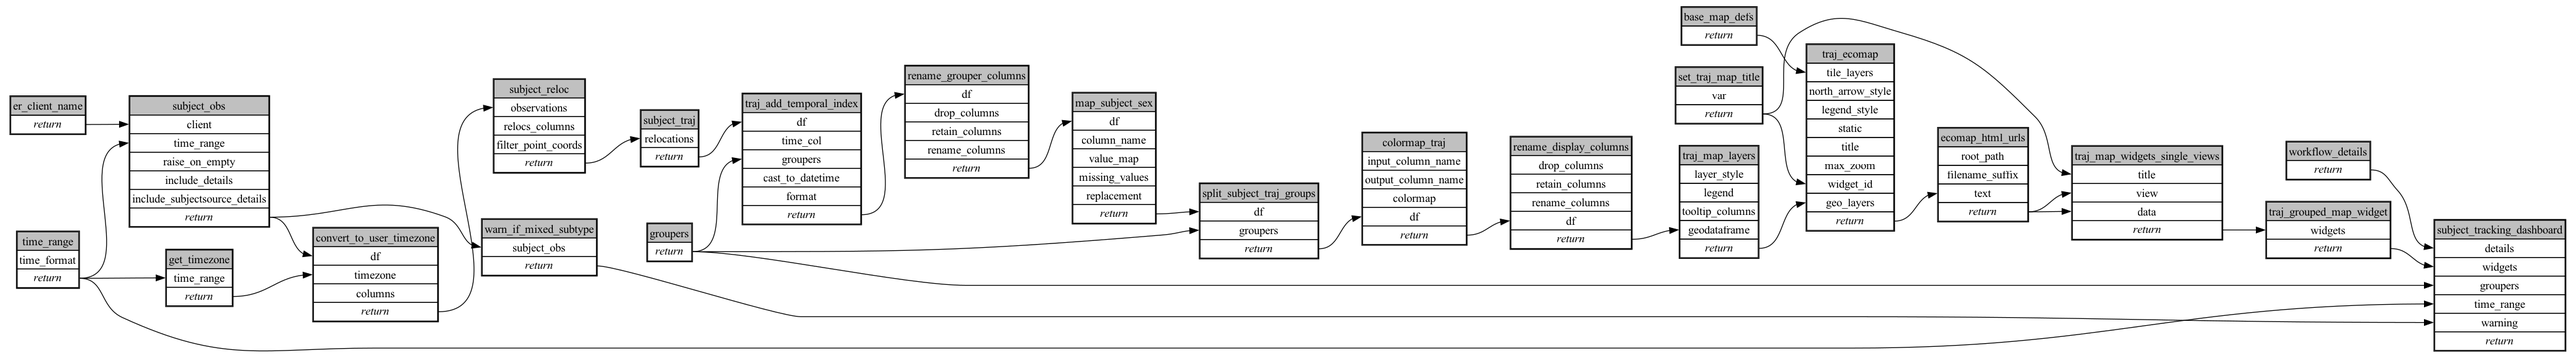
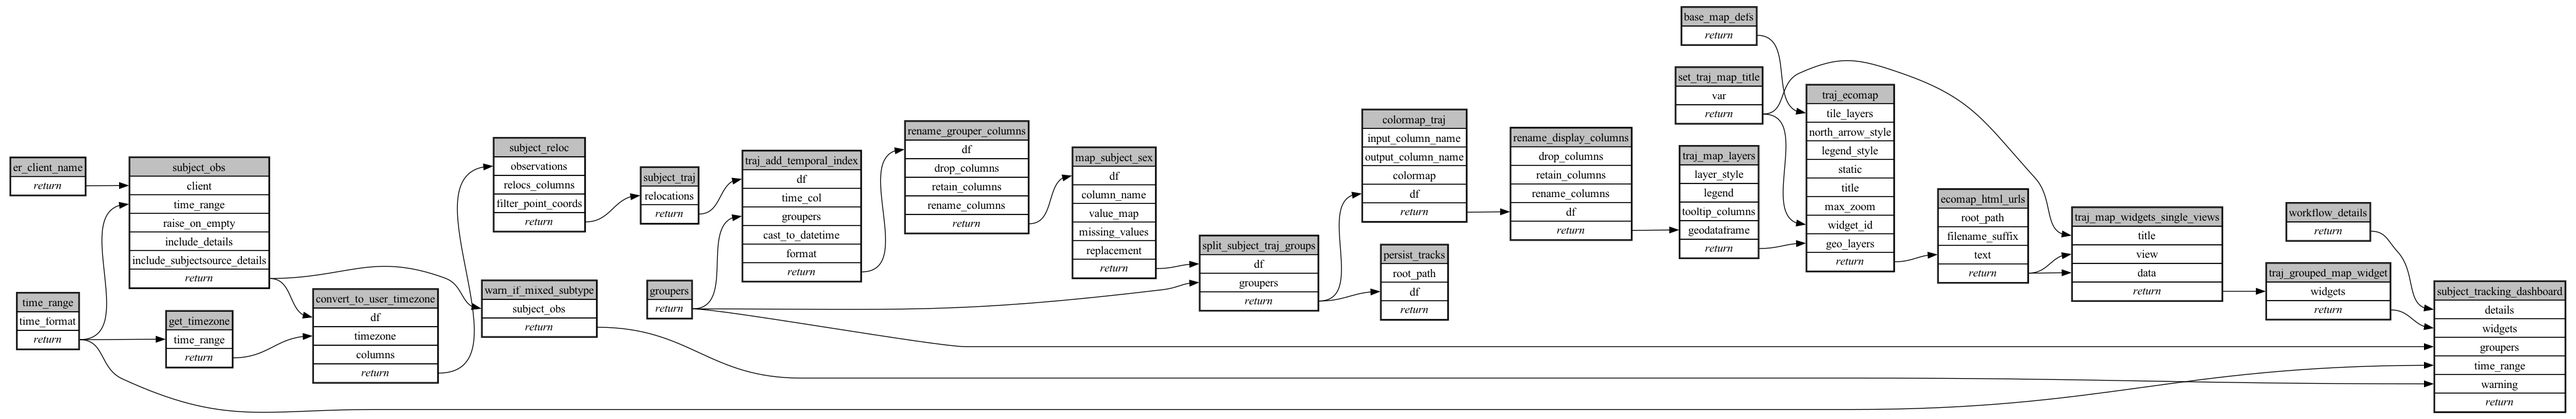
persist df

diff --git a/workflows/download-subject-tracks/ecoscope-workflows-download-subject-tracks-workflow/ecoscope_workflows_download_subject_tracks_workflow/dags/run_async.py b/workflows/download-subject-tracks/ecoscope-workflows-download-subject-tracks-workflow/ecoscope_workflows_download_subject_tracks_workflow/dags/run_async.py
@@ -35,6 +35,9 @@ from ecoscope_workflows_core.tasks.transformation import (
 )
 from ecoscope_workflows_core.tasks.transformation import map_columns as map_columns
 from ecoscope_workflows_core.tasks.transformation import map_values as map_values
+from ecoscope_workflows_ext_custom.tasks.io import (
+    persist_df_wrapper as persist_df_wrapper,
+)
 from ecoscope_workflows_ext_ecoscope.tasks.io import (
     get_subjectgroup_observations as get_subjectgroup_observations,
 )
@@ -81,6 +84,7 @@ def main(params: Params):
         "map_subject_sex": ["rename_grouper_columns"],
         "set_traj_map_title": [],
         "split_subject_traj_groups": ["map_subject_sex", "groupers"],
+        "persist_tracks": ["split_subject_traj_groups"],
         "base_map_defs": [],
         "colormap_traj": ["split_subject_traj_groups"],
         "rename_display_columns": ["colormap_traj"],
@@ -409,6 +413,28 @@ def main(params: Params):
             }
             | (params_dict.get("split_subject_traj_groups") or {}),
             method="call",
+        ),
+        "persist_tracks": Node(
+            async_task=persist_df_wrapper.validate()
+            .set_task_instance_id("persist_tracks")
+            .handle_errors()
+            .with_tracing()
+            .skipif(
+                conditions=[
+                    never,
+                ],
+                unpack_depth=1,
+            )
+            .set_executor("lithops"),
+            partial={
+                "root_path": os.environ["ECOSCOPE_WORKFLOWS_RESULTS"],
+            }
+            | (params_dict.get("persist_tracks") or {}),
+            method="mapvalues",
+            kwargs={
+                "argnames": ["df"],
+                "argvalues": DependsOn("split_subject_traj_groups"),
+            },
         ),
         "base_map_defs": Node(
             async_task=set_base_maps.validate()

diff --git a/workflows/download-subject-tracks/ecoscope-workflows-download-subject-tracks-workflow/ecoscope_workflows_download_subject_tracks_workflow/dags/run_async_mock_io.py b/workflows/download-subject-tracks/ecoscope-workflows-download-subject-tracks-workflow/ecoscope_workflows_download_subject_tracks_workflow/dags/run_async_mock_io.py
@@ -54,6 +54,9 @@ from ecoscope_workflows_core.tasks.transformation import (
 )
 from ecoscope_workflows_core.tasks.transformation import map_columns as map_columns
 from ecoscope_workflows_core.tasks.transformation import map_values as map_values
+from ecoscope_workflows_ext_custom.tasks.io import (
+    persist_df_wrapper as persist_df_wrapper,
+)
 from ecoscope_workflows_ext_ecoscope.tasks.preprocessing import (
     process_relocations as process_relocations,
 )
@@ -99,6 +102,7 @@ def main(params: Params):
         "map_subject_sex": ["rename_grouper_columns"],
         "set_traj_map_title": [],
         "split_subject_traj_groups": ["map_subject_sex", "groupers"],
+        "persist_tracks": ["split_subject_traj_groups"],
         "base_map_defs": [],
         "colormap_traj": ["split_subject_traj_groups"],
         "rename_display_columns": ["colormap_traj"],
@@ -427,6 +431,28 @@ def main(params: Params):
             }
             | (params_dict.get("split_subject_traj_groups") or {}),
             method="call",
+        ),
+        "persist_tracks": Node(
+            async_task=persist_df_wrapper.validate()
+            .set_task_instance_id("persist_tracks")
+            .handle_errors()
+            .with_tracing()
+            .skipif(
+                conditions=[
+                    never,
+                ],
+                unpack_depth=1,
+            )
+            .set_executor("lithops"),
+            partial={
+                "root_path": os.environ["ECOSCOPE_WORKFLOWS_RESULTS"],
+            }
+            | (params_dict.get("persist_tracks") or {}),
+            method="mapvalues",
+            kwargs={
+                "argnames": ["df"],
+                "argvalues": DependsOn("split_subject_traj_groups"),
+            },
         ),
         "base_map_defs": Node(
             async_task=set_base_maps.validate()

diff --git a/workflows/download-subject-tracks/ecoscope-workflows-download-subject-tracks-workflow/ecoscope_workflows_download_subject_tracks_workflow/formdata.py b/workflows/download-subject-tracks/ecoscope-workflows-download-subject-tracks-workflow/ecoscope_workflows_download_subject_tracks_workflow/formdata.py
@@ -33,6 +33,31 @@ class SubjectGroup(BaseModel):
     subject_obs: Optional[SubjectObs] = Field(None, title="")
 
 
+class Filetype(str, Enum):
+    csv = "csv"
+    gpkg = "gpkg"
+    geoparquet = "geoparquet"
+
+
+class PersistTracks(BaseModel):
+    model_config = ConfigDict(
+        extra="forbid",
+    )
+    filename: Optional[str] = Field(
+        None,
+        description="            Optional filename to persist text to within the `root_path`.\n            If not provided, a filename will be generated based on a hash of the df content.\n            ",
+        title="Filename",
+    )
+    filetypes: Optional[List[Filetype]] = Field(
+        ["csv"], description="The output format", title="Filetypes"
+    )
+    sanitize: Optional[bool] = Field(
+        False,
+        description="Whether to sanitize the dataframe for Arrow compatibility before persisting, recommended when including event or observation details",
+        title="Sanitize",
+    )
+
+
 class Url(str, Enum):
     https___tile_openstreetmap_org__z___x___y__png = (
         "https://tile.openstreetmap.org/{z}/{x}/{y}.png"
@@ -306,5 +331,8 @@ class FormData(BaseModel):
     )
     groupers: Optional[Groupers] = Field(None, title="Group Data")
     subject_traj: Optional[SubjectTraj] = Field(None, title="Trajectory Segment Filter")
+    persist_tracks: Optional[PersistTracks] = Field(
+        None, title="Persist Subject Trajectories"
+    )
     base_map_defs: Optional[BaseMapDefs] = Field(None, title="Map Base Layers")
     filter_events: Optional[Any] = None

diff --git a/workflows/download-subject-tracks/ecoscope-workflows-download-subject-tracks-workflow/ecoscope_workflows_download_subject_tracks_workflow/params.py b/workflows/download-subject-tracks/ecoscope-workflows-download-subject-tracks-workflow/ecoscope_workflows_download_subject_tracks_workflow/params.py
@@ -29,6 +29,31 @@ class SubjectObs(BaseModel):
     )
 
 
+class Filetype(str, Enum):
+    csv = "csv"
+    gpkg = "gpkg"
+    geoparquet = "geoparquet"
+
+
+class PersistTracks(BaseModel):
+    model_config = ConfigDict(
+        extra="forbid",
+    )
+    filename: Optional[str] = Field(
+        None,
+        description="            Optional filename to persist text to within the `root_path`.\n            If not provided, a filename will be generated based on a hash of the df content.\n            ",
+        title="Filename",
+    )
+    filetypes: Optional[List[Filetype]] = Field(
+        ["csv"], description="The output format", title="Filetypes"
+    )
+    sanitize: Optional[bool] = Field(
+        False,
+        description="Whether to sanitize the dataframe for Arrow compatibility before persisting, recommended when including event or observation details",
+        title="Sanitize",
+    )
+
+
 class Url(str, Enum):
     https___tile_openstreetmap_org__z___x___y__png = (
         "https://tile.openstreetmap.org/{z}/{x}/{y}.png"
@@ -300,4 +325,7 @@ class Params(BaseModel):
     subject_obs: Optional[SubjectObs] = Field(None, title="")
     groupers: Optional[Groupers] = Field(None, title="Group Data")
     subject_traj: Optional[SubjectTraj] = Field(None, title="Trajectory Segment Filter")
+    persist_tracks: Optional[PersistTracks] = Field(
+        None, title="Persist Subject Trajectories"
+    )
     base_map_defs: Optional[BaseMapDefs] = Field(None, title="Map Base Layers")

diff --git a/workflows/download-subject-tracks/ecoscope-workflows-download-subject-tracks-workflow/ecoscope_workflows_download_subject_tracks_workflow/dags/jupytext.py b/workflows/download-subject-tracks/ecoscope-workflows-download-subject-tracks-workflow/ecoscope_workflows_download_subject_tracks_workflow/dags/jupytext.py
@@ -44,6 +44,9 @@ from ecoscope_workflows_core.tasks.transformation import (
 )
 from ecoscope_workflows_core.tasks.transformation import map_columns as map_columns
 from ecoscope_workflows_core.tasks.transformation import map_values as map_values
+from ecoscope_workflows_ext_custom.tasks.io import (
+    persist_df_wrapper as persist_df_wrapper,
+)
 from ecoscope_workflows_ext_ecoscope.tasks.io import (
     get_subjectgroup_observations as get_subjectgroup_observations,
 )
@@ -553,6 +556,39 @@ split_subject_traj_groups = (
     )
     .partial(df=map_subject_sex, groupers=groupers, **split_subject_traj_groups_params)
     .call()
+)
+
+
+# %% [markdown]
+# ## Persist Subject Trajectories
+
+# %%
+# parameters
+
+persist_tracks_params = dict(
+    filename=...,
+    filetypes=...,
+    sanitize=...,
+)
+
+# %%
+# call the task
+
+
+persist_tracks = (
+    persist_df_wrapper.set_task_instance_id("persist_tracks")
+    .handle_errors()
+    .with_tracing()
+    .skipif(
+        conditions=[
+            never,
+        ],
+        unpack_depth=1,
+    )
+    .partial(
+        root_path=os.environ["ECOSCOPE_WORKFLOWS_RESULTS"], **persist_tracks_params
+    )
+    .mapvalues(argnames=["df"], argvalues=split_subject_traj_groups)
 )
 
 

diff --git a/workflows/download-subject-tracks/ecoscope-workflows-download-subject-tracks-workflow/ecoscope_workflows_download_subject_tracks_workflow/dags/run_sequential.py b/workflows/download-subject-tracks/ecoscope-workflows-download-subject-tracks-workflow/ecoscope_workflows_download_subject_tracks_workflow/dags/run_sequential.py
@@ -34,6 +34,9 @@ from ecoscope_workflows_core.tasks.transformation import (
 )
 from ecoscope_workflows_core.tasks.transformation import map_columns as map_columns
 from ecoscope_workflows_core.tasks.transformation import map_values as map_values
+from ecoscope_workflows_ext_custom.tasks.io import (
+    persist_df_wrapper as persist_df_wrapper,
+)
 from ecoscope_workflows_ext_ecoscope.tasks.io import (
     get_subjectgroup_observations as get_subjectgroup_observations,
 )
@@ -365,6 +368,24 @@ def main(params: Params):
             **(params_dict.get("split_subject_traj_groups") or {}),
         )
         .call()
+    )
+
+    persist_tracks = (
+        persist_df_wrapper.validate()
+        .set_task_instance_id("persist_tracks")
+        .handle_errors()
+        .with_tracing()
+        .skipif(
+            conditions=[
+                never,
+            ],
+            unpack_depth=1,
+        )
+        .partial(
+            root_path=os.environ["ECOSCOPE_WORKFLOWS_RESULTS"],
+            **(params_dict.get("persist_tracks") or {}),
+        )
+        .mapvalues(argnames=["df"], argvalues=split_subject_traj_groups)
     )
 
     base_map_defs = (

diff --git a/workflows/download-subject-tracks/ecoscope-workflows-download-subject-tracks-workflow/ecoscope_workflows_download_subject_tracks_workflow/dags/run_sequential_mock_io.py b/workflows/download-subject-tracks/ecoscope-workflows-download-subject-tracks-workflow/ecoscope_workflows_download_subject_tracks_workflow/dags/run_sequential_mock_io.py
@@ -53,6 +53,9 @@ from ecoscope_workflows_core.tasks.transformation import (
 )
 from ecoscope_workflows_core.tasks.transformation import map_columns as map_columns
 from ecoscope_workflows_core.tasks.transformation import map_values as map_values
+from ecoscope_workflows_ext_custom.tasks.io import (
+    persist_df_wrapper as persist_df_wrapper,
+)
 from ecoscope_workflows_ext_ecoscope.tasks.preprocessing import (
     process_relocations as process_relocations,
 )
@@ -383,6 +386,24 @@ def main(params: Params):
             **(params_dict.get("split_subject_traj_groups") or {}),
         )
         .call()
+    )
+
+    persist_tracks = (
+        persist_df_wrapper.validate()
+        .set_task_instance_id("persist_tracks")
+        .handle_errors()
+        .with_tracing()
+        .skipif(
+            conditions=[
+                never,
+            ],
+            unpack_depth=1,
+        )
+        .partial(
+            root_path=os.environ["ECOSCOPE_WORKFLOWS_RESULTS"],
+            **(params_dict.get("persist_tracks") or {}),
+        )
+        .mapvalues(argnames=["df"], argvalues=split_subject_traj_groups)
     )
 
     base_map_defs = (

diff --git a/workflows/download-subject-tracks/ecoscope-workflows-download-subject-tracks-workflow/README.md b/workflows/download-subject-tracks/ecoscope-workflows-download-subject-tracks-workflow/README.md
@@ -5,8 +5,8 @@
 
 ```yaml
 # fingerprint:
-artifacts_sha256_basic: 91d4b6ec232746d95698d25b8f35b0925b107e6082ff35768cab396f59142d25
-artifacts_sha256_strict: e07763aa06ba06d8e42a0d8b99848854d6161280435a25ae66eed4746e88b274
+artifacts_sha256_basic: e593521178925327277c6bfac609eb914726e91906e18cb8179202d1837d1db6
+artifacts_sha256_strict: a341241946284ea61e2b38f08e69bc13c5320781e3da5cdc2bfbc813c9df753a
 installed_requirements:
 - channel: file:///tmp/ecoscope-workflows/release/artifacts/
   name: ecoscope-workflows-core
@@ -20,8 +20,8 @@ installed_requirements:
 - channel: https://repo.prefix.dev/ecoscope-workflows-custom/
   name: pydeck
   version: {version: ==0.9.1a2}
-params_sha256: 27a4e685c536e317f500d6b56aad5667da7a6823136008287b1fd3beadc103a8
-spec_sha256: 189b76d48d33c35cde789b9ad840f51541344d37988fdc3d3863e4afcdda635c
+params_sha256: 65d41342a526fba581a8c69be3d451d448461590d7843d40d7f15d2014d9ee9a
+spec_sha256: 278819395f1d6d62393e63fb6645b44c354470b8bf199275297eafe31821852f
 
 ```
 
